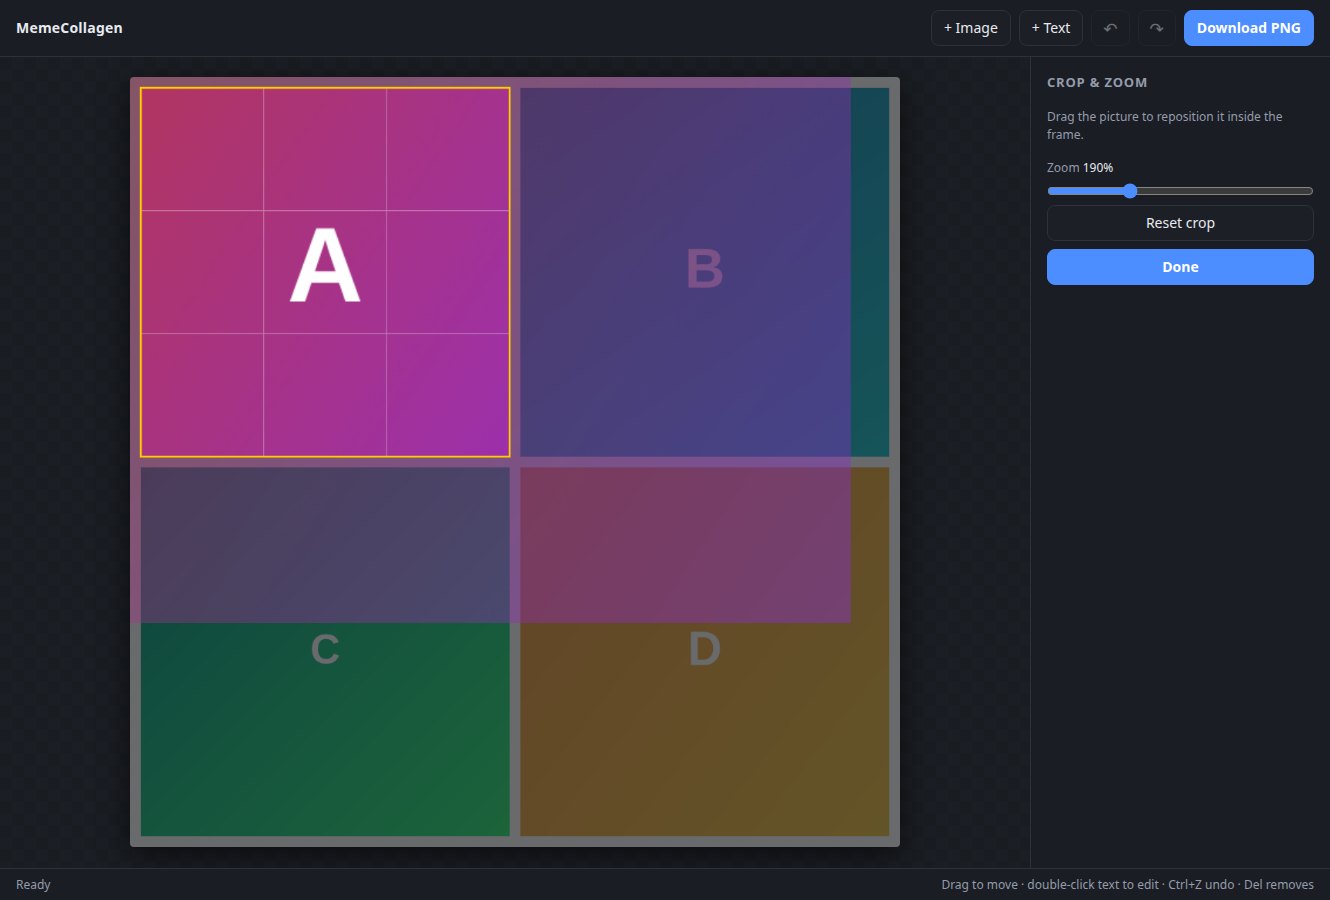
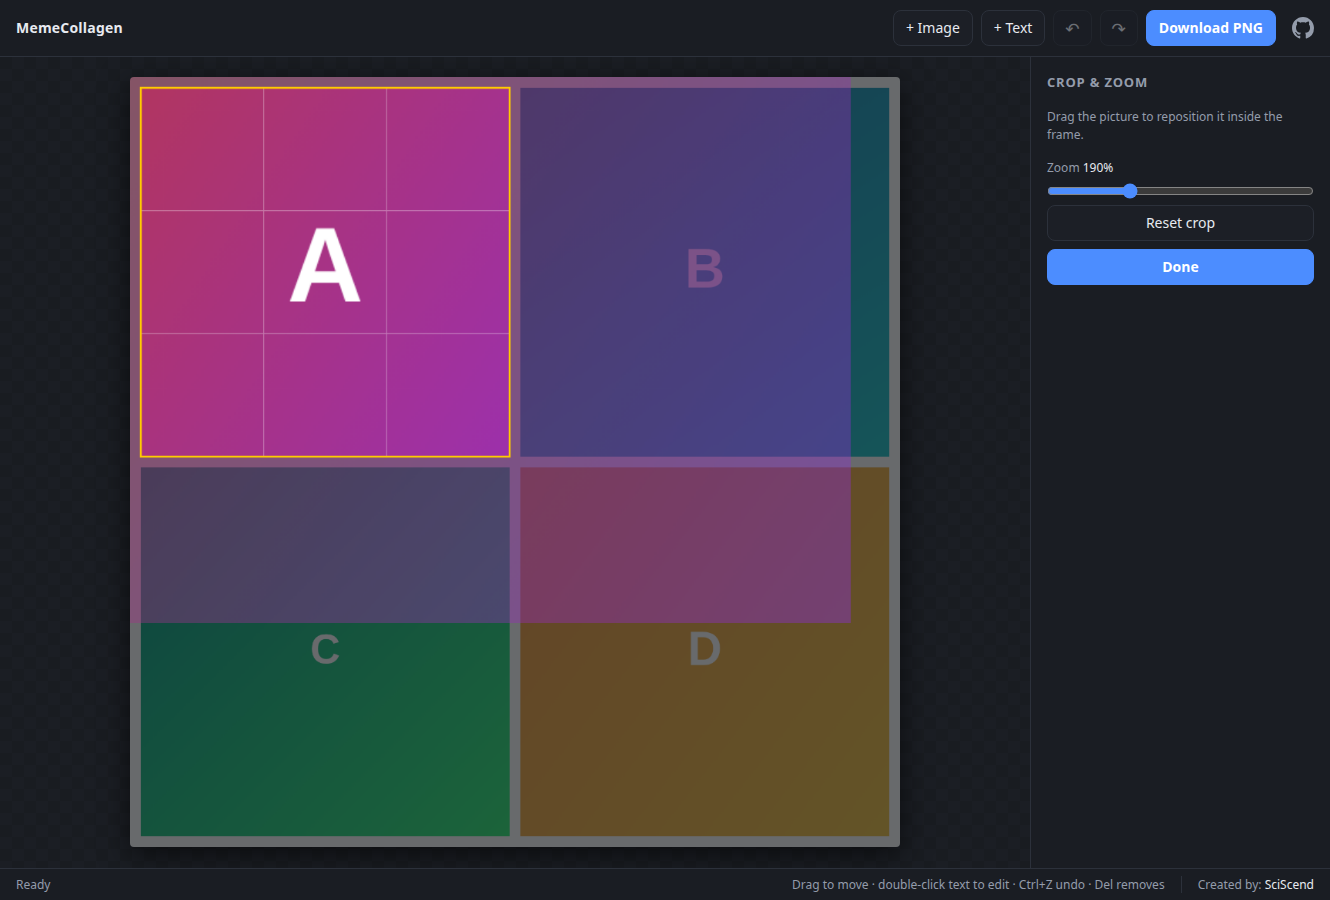
Link the GitHub repo from the toolbar; credit SciScend in the status bar
A GitHub logo at the right end of the toolbar opens the repository in a
new tab; "Created by: SciScend" sits at the right of the status bar and
links to sciscend.com. On narrow screens the logo stays on the brand row
and the credit takes the place of the hidden keyboard hints.

README screenshots regenerated to show both.

Assisted-by: claude-opus-5-5

Changed region(s): [[0.5857, 0.9644, 0.9865, 0.9956], [0.8632, 0.0, 0.9865, 0.0622], [0.709, 0.0311, 0.7707, 0.0622]]

diff --git a/index.html b/index.html
@@ -21,6 +21,9 @@
       <button id="btn-redo" class="icon" title="Redo (Ctrl+Shift+Z)" disabled>&#8631;</button>
       <button id="btn-download" class="primary">Download PNG</button>
     </div>
+    <a class="repo-link" href="https://github.com/SciScend/meme-collagen" target="_blank" rel="noopener" title="Source code on GitHub" aria-label="Source code on GitHub">
+      <svg viewBox="0 0 16 16" width="22" height="22" aria-hidden="true"><path fill="currentColor" d="M8 0C3.58 0 0 3.58 0 8c0 3.54 2.29 6.53 5.47 7.59.4.07.55-.17.55-.38 0-.19-.01-.82-.01-1.49-2.01.37-2.53-.49-2.69-.94-.09-.23-.48-.94-.82-1.13-.28-.15-.68-.52-.01-.53.63-.01 1.08.58 1.23.82.72 1.21 1.87.87 2.33.66.07-.52.28-.87.51-1.07-1.78-.2-3.64-.89-3.64-3.95 0-.87.31-1.59.82-2.15-.08-.2-.36-1.02.08-2.12 0 0 .67-.21 2.2.82.64-.18 1.32-.27 2-.27.68 0 1.36.09 2 .27 1.53-1.04 2.2-.82 2.2-.82.44 1.1.16 1.92.08 2.12.51.56.82 1.27.82 2.15 0 3.07-1.87 3.75-3.65 3.95.29.25.54.73.54 1.48 0 1.07-.01 1.93-.01 2.2 0 .21.15.46.55.38A8.013 8.013 0 0 0 16 8c0-4.42-3.58-8-8-8z"/></svg>
+    </a>
   </header>
 
   <main>
@@ -204,6 +207,7 @@
   <footer class="statusbar">
     <span id="status">Ready</span>
     <span class="keys">Drag to move &middot; double-click text to edit &middot; Ctrl+Z undo &middot; Del removes</span>
+    <span class="credit">Created by: <a href="https://sciscend.com/" target="_blank" rel="noopener">SciScend</a></span>
   </footer>
 
 </div>

diff --git a/styles.css b/styles.css
@@ -52,6 +52,12 @@ body {
   margin-left: auto;
 }
 
+.repo-link {
+  display: flex;
+  color: var(--muted);
+}
+.repo-link:hover { color: var(--text); }
+
 /* ---------- buttons & inputs ---------- */
 
 button {
@@ -277,11 +283,21 @@ main {
 
 .statusbar .keys { margin-left: auto; }
 
+.statusbar .credit {
+  padding-left: 16px;
+  border-left: 1px solid var(--line);
+  white-space: nowrap;
+}
+.statusbar a { color: var(--text); text-decoration: none; }
+.statusbar a:hover { text-decoration: underline; }
+
 @media (max-width: 820px) {
   main { grid-template-columns: 1fr; grid-template-rows: 1fr auto; }
   .panel { border-left: none; border-top: 1px solid var(--line); max-height: 46vh; }
   .toolbar { flex-wrap: wrap; gap: 10px; }
-  .actions { margin-left: 0; width: 100%; }
+  .actions { margin-left: 0; width: 100%; order: 1; }
   .actions button { flex: 1; }
+  .repo-link { margin-left: auto; }
   .statusbar .keys { display: none; }
+  .statusbar .credit { margin-left: auto; padding-left: 0; border-left: none; }
 }

diff --git a/CHANGELOG.md b/CHANGELOG.md
@@ -7,6 +7,10 @@ project adheres to [Semantic Versioning](https://semver.org/spec/v2.0.0.html).
 
 ## [Unreleased]
 
+### Added
+
+- A GitHub link in the toolbar, and a "Created by: SciScend" credit in the status bar.
+
 ## [1.0.0] - 2026-07-28
 
 First release.
